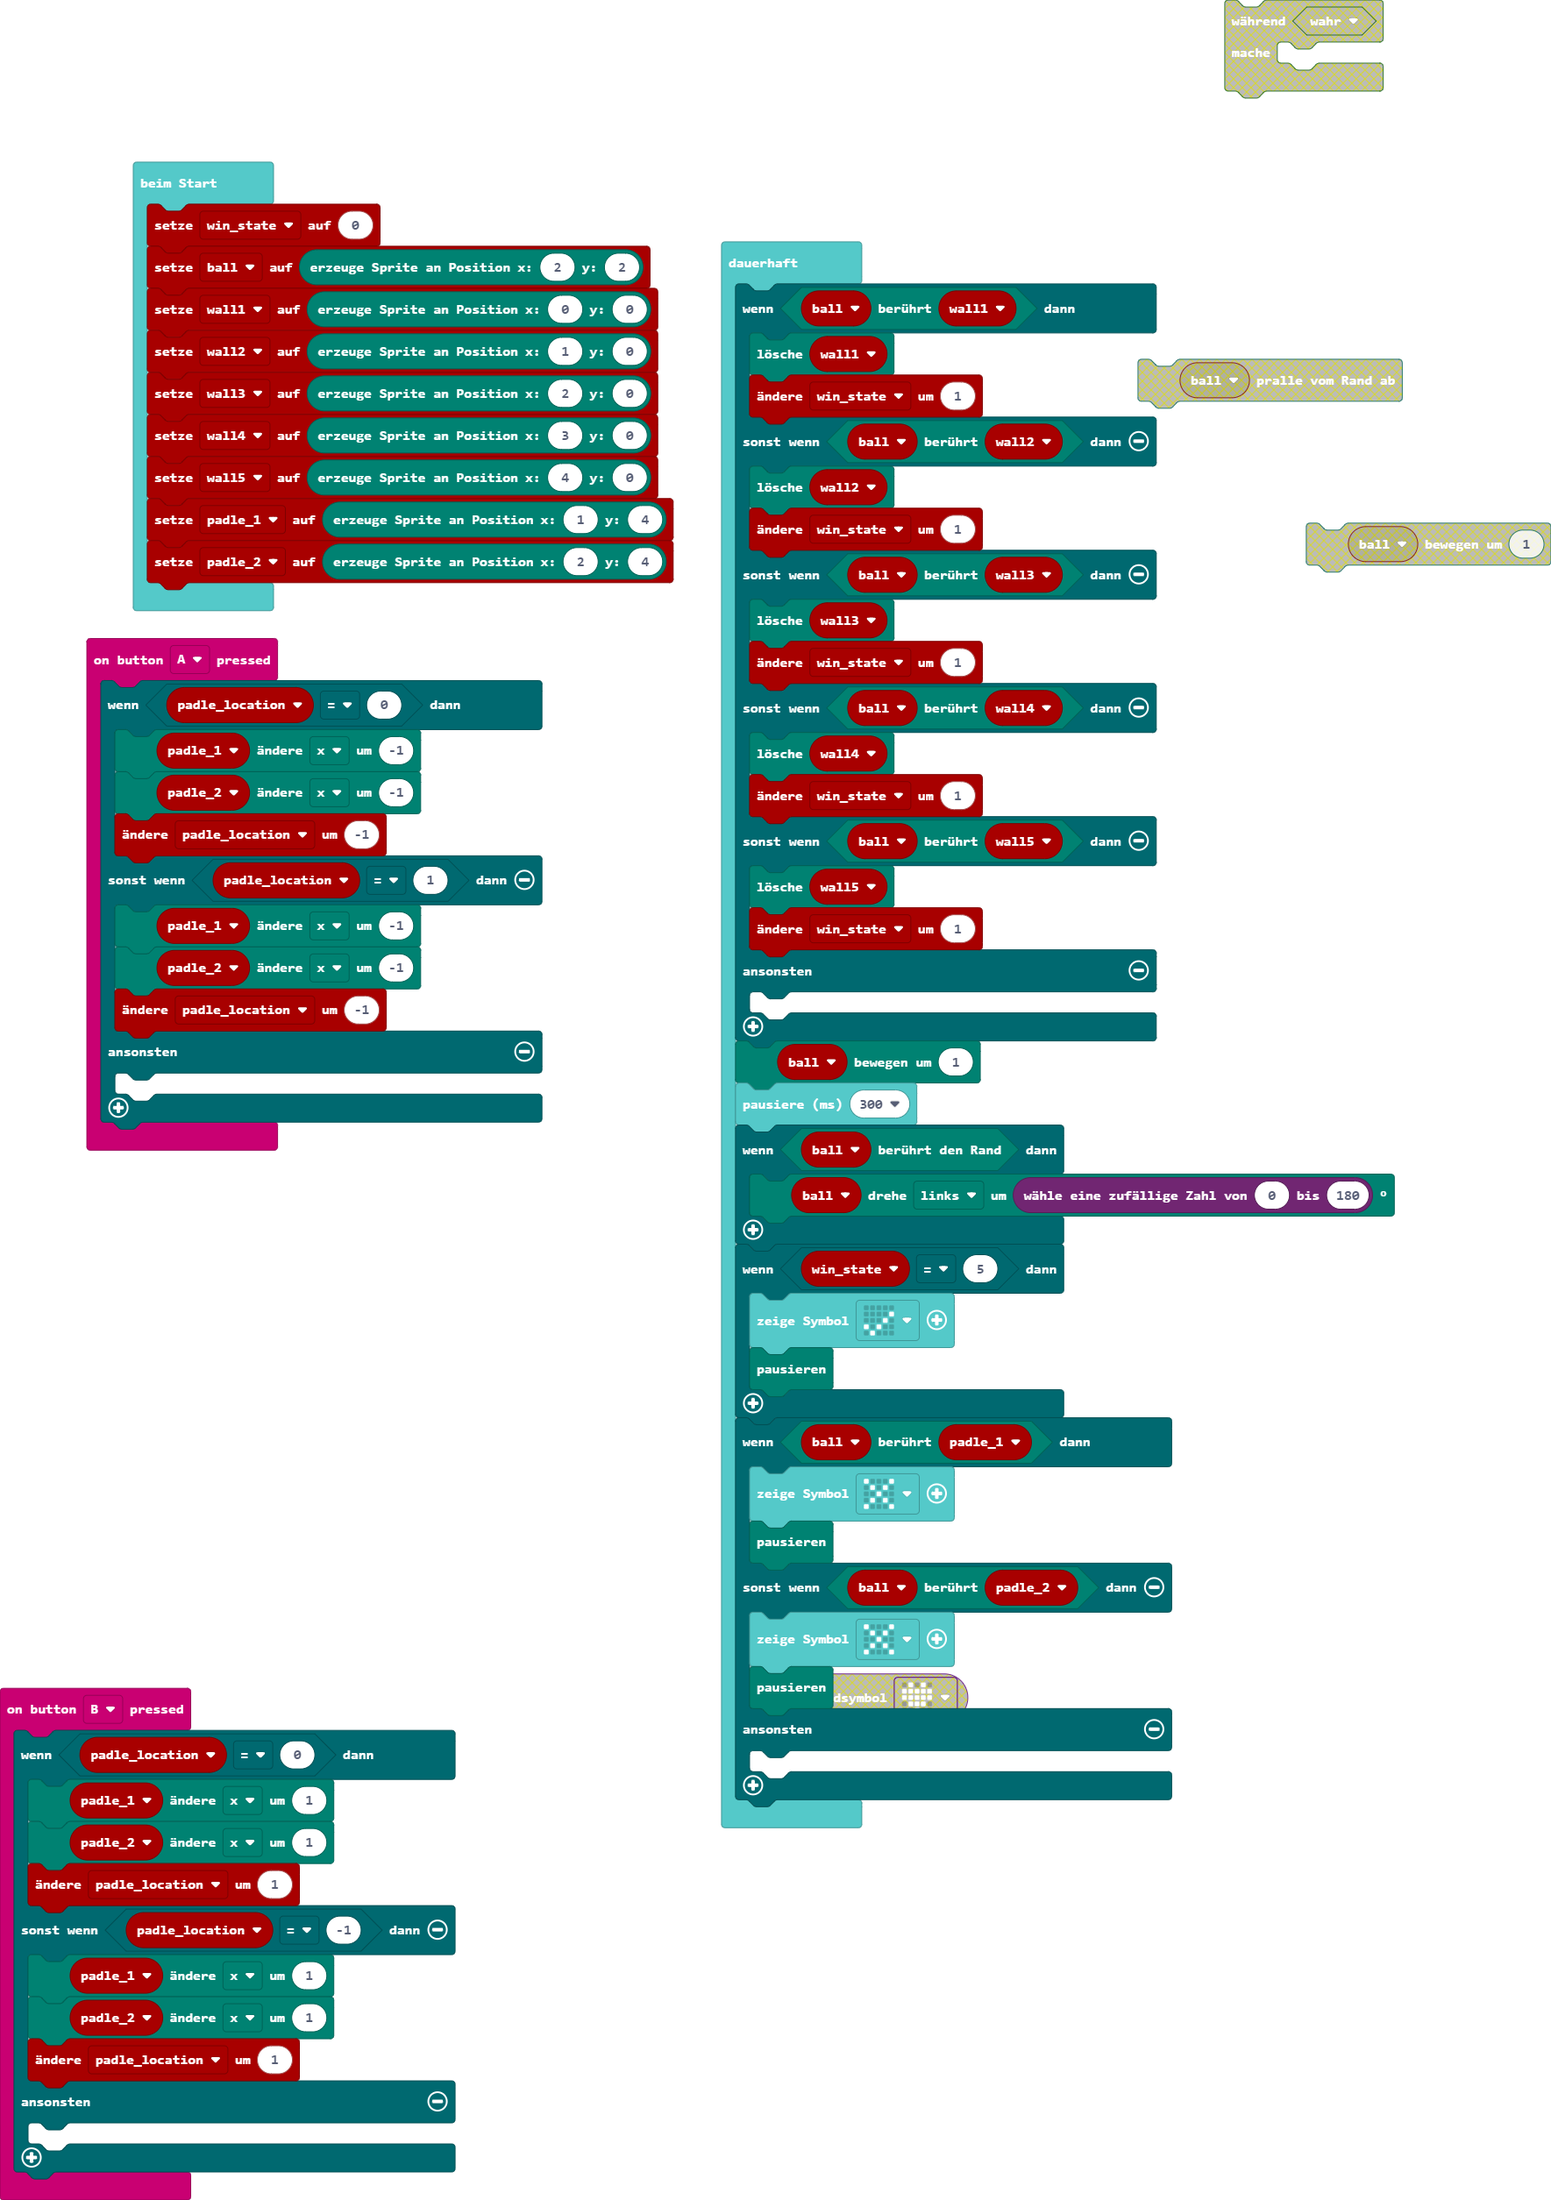
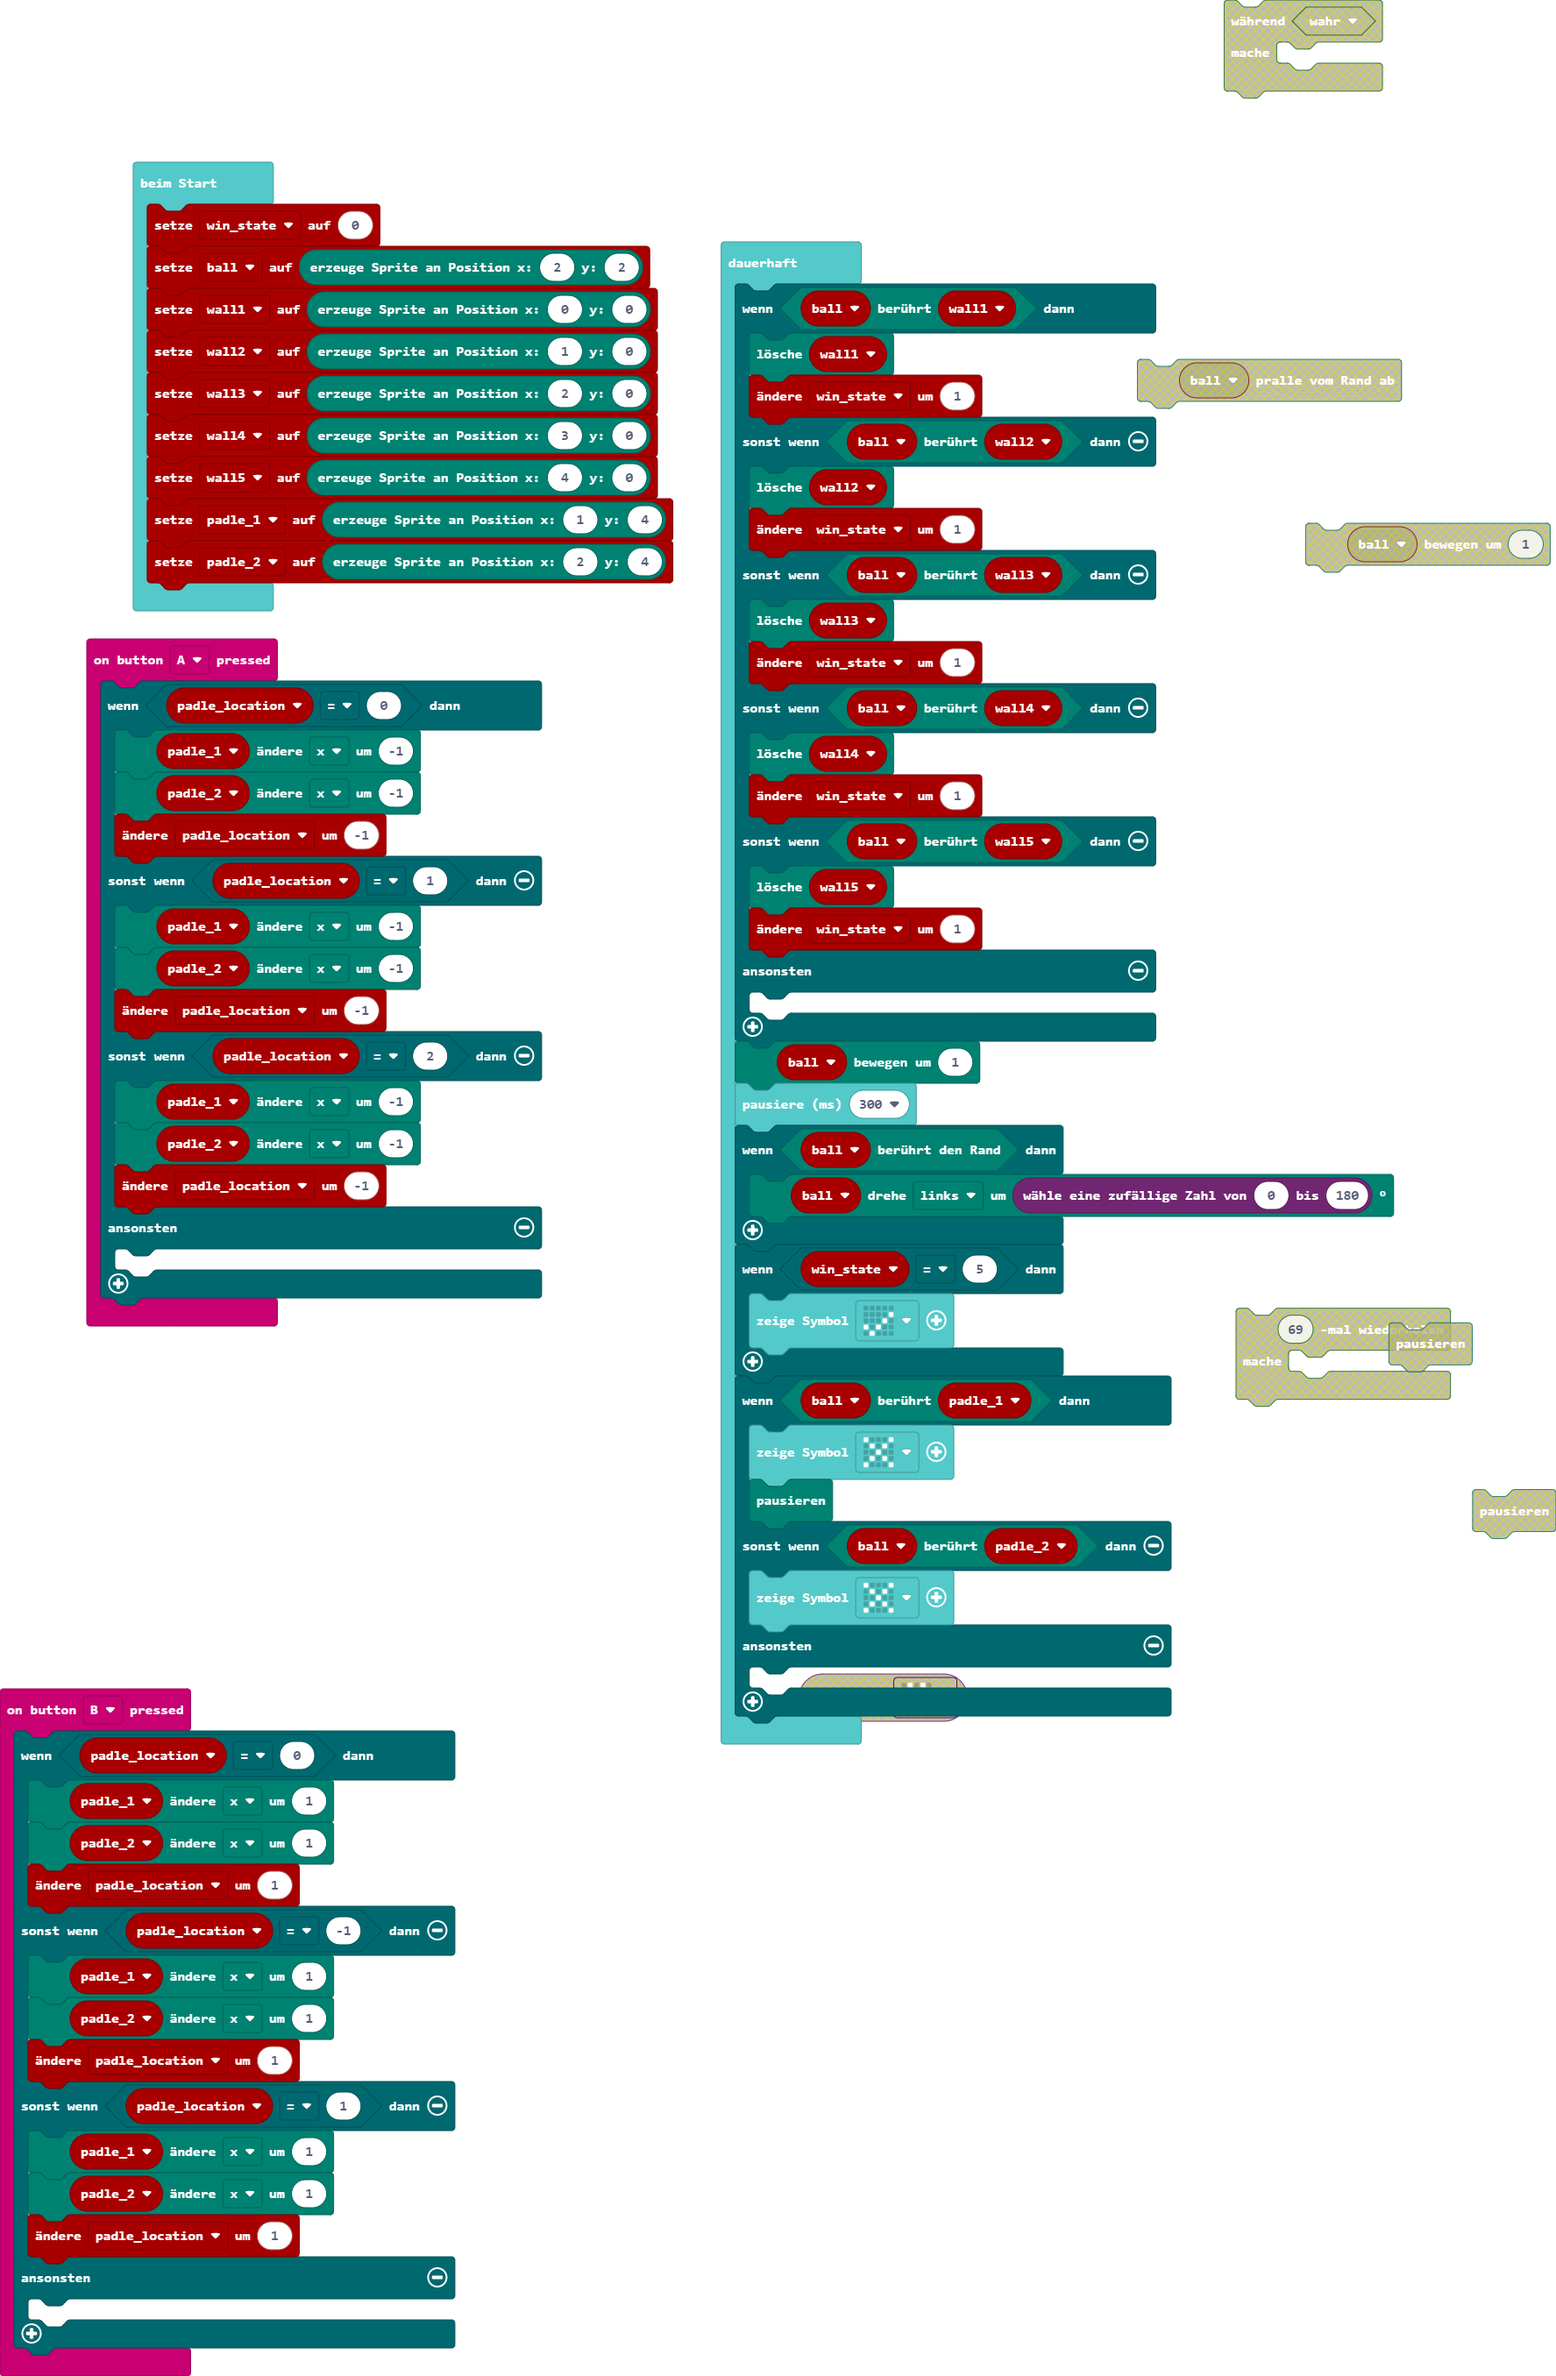
Aktualisiere main.blocks, main.ts

diff --git a/main.ts b/main.ts
@@ -7,6 +7,10 @@ input.onButtonPressed(Button.A, function () {
         padle_1.change(LedSpriteProperty.X, -1)
         padle_2.change(LedSpriteProperty.X, -1)
         padle_location += -1
+    } else if (padle_location == 2) {
+        padle_1.change(LedSpriteProperty.X, -1)
+        padle_2.change(LedSpriteProperty.X, -1)
+        padle_location += -1
     } else {
     	
     }
@@ -17,6 +21,10 @@ input.onButtonPressed(Button.B, function () {
         padle_2.change(LedSpriteProperty.X, 1)
         padle_location += 1
     } else if (padle_location == -1) {
+        padle_1.change(LedSpriteProperty.X, 1)
+        padle_2.change(LedSpriteProperty.X, 1)
+        padle_location += 1
+    } else if (padle_location == 1) {
         padle_1.change(LedSpriteProperty.X, 1)
         padle_2.change(LedSpriteProperty.X, 1)
         padle_location += 1
@@ -62,14 +70,12 @@ basic.forever(function () {
     }
     if (win_state == 5) {
         basic.showIcon(IconNames.Yes)
-        game.pause()
     }
     if (ball.isTouching(padle_1)) {
         basic.showIcon(IconNames.No)
         game.pause()
     } else if (ball.isTouching(padle_2)) {
         basic.showIcon(IconNames.No)
-        game.pause()
     } else {
     	
     }
